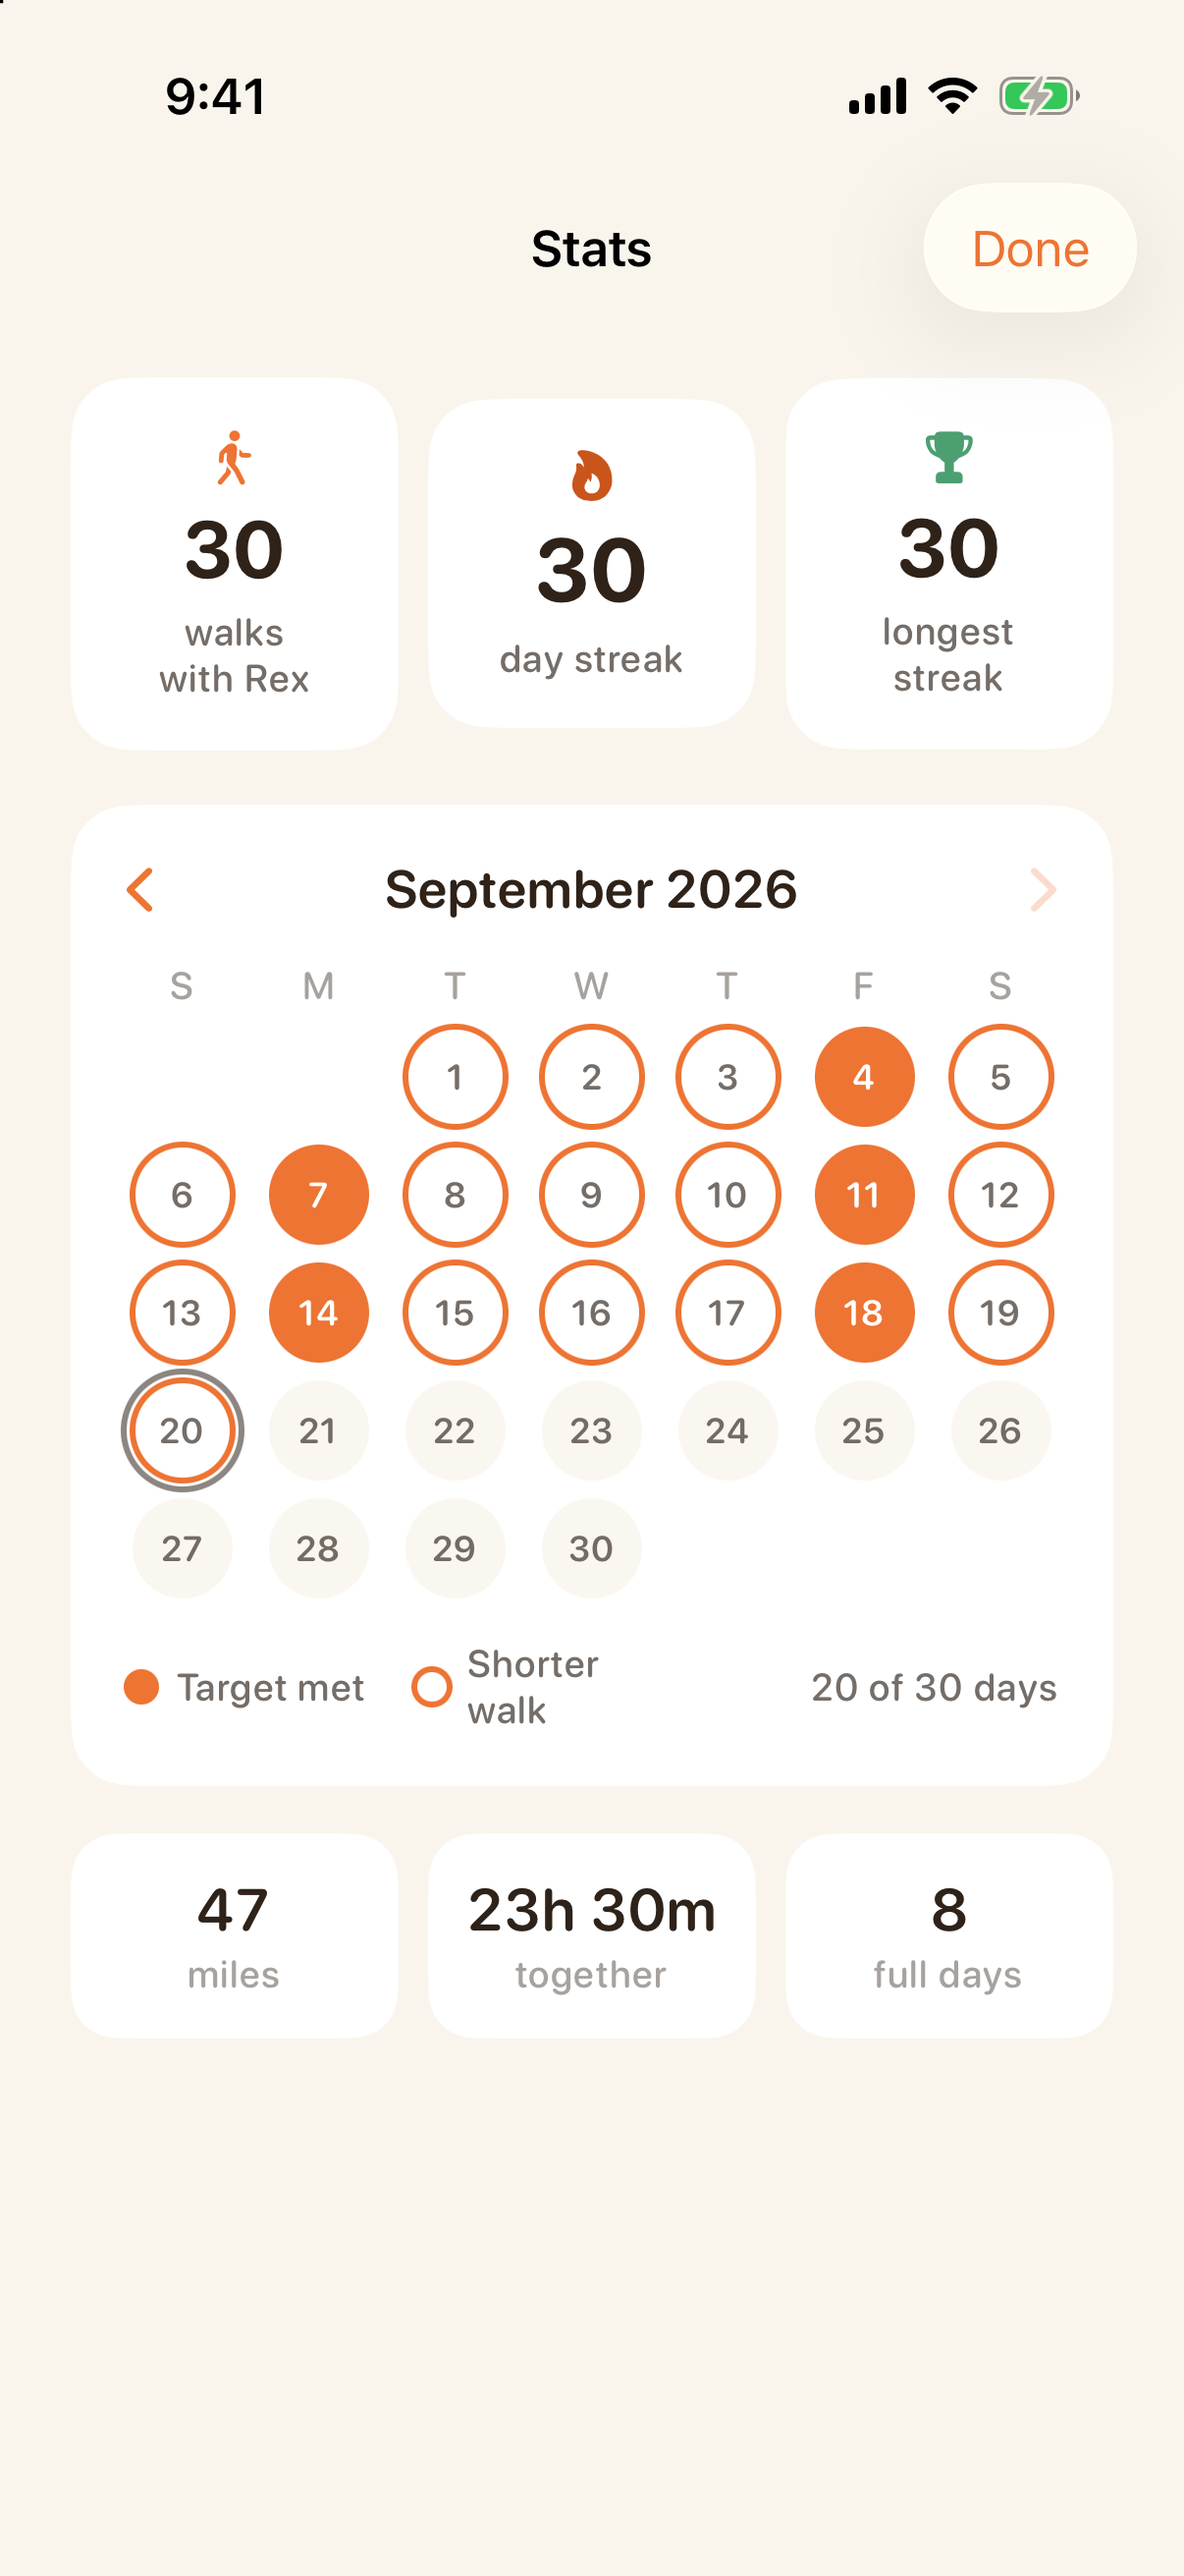
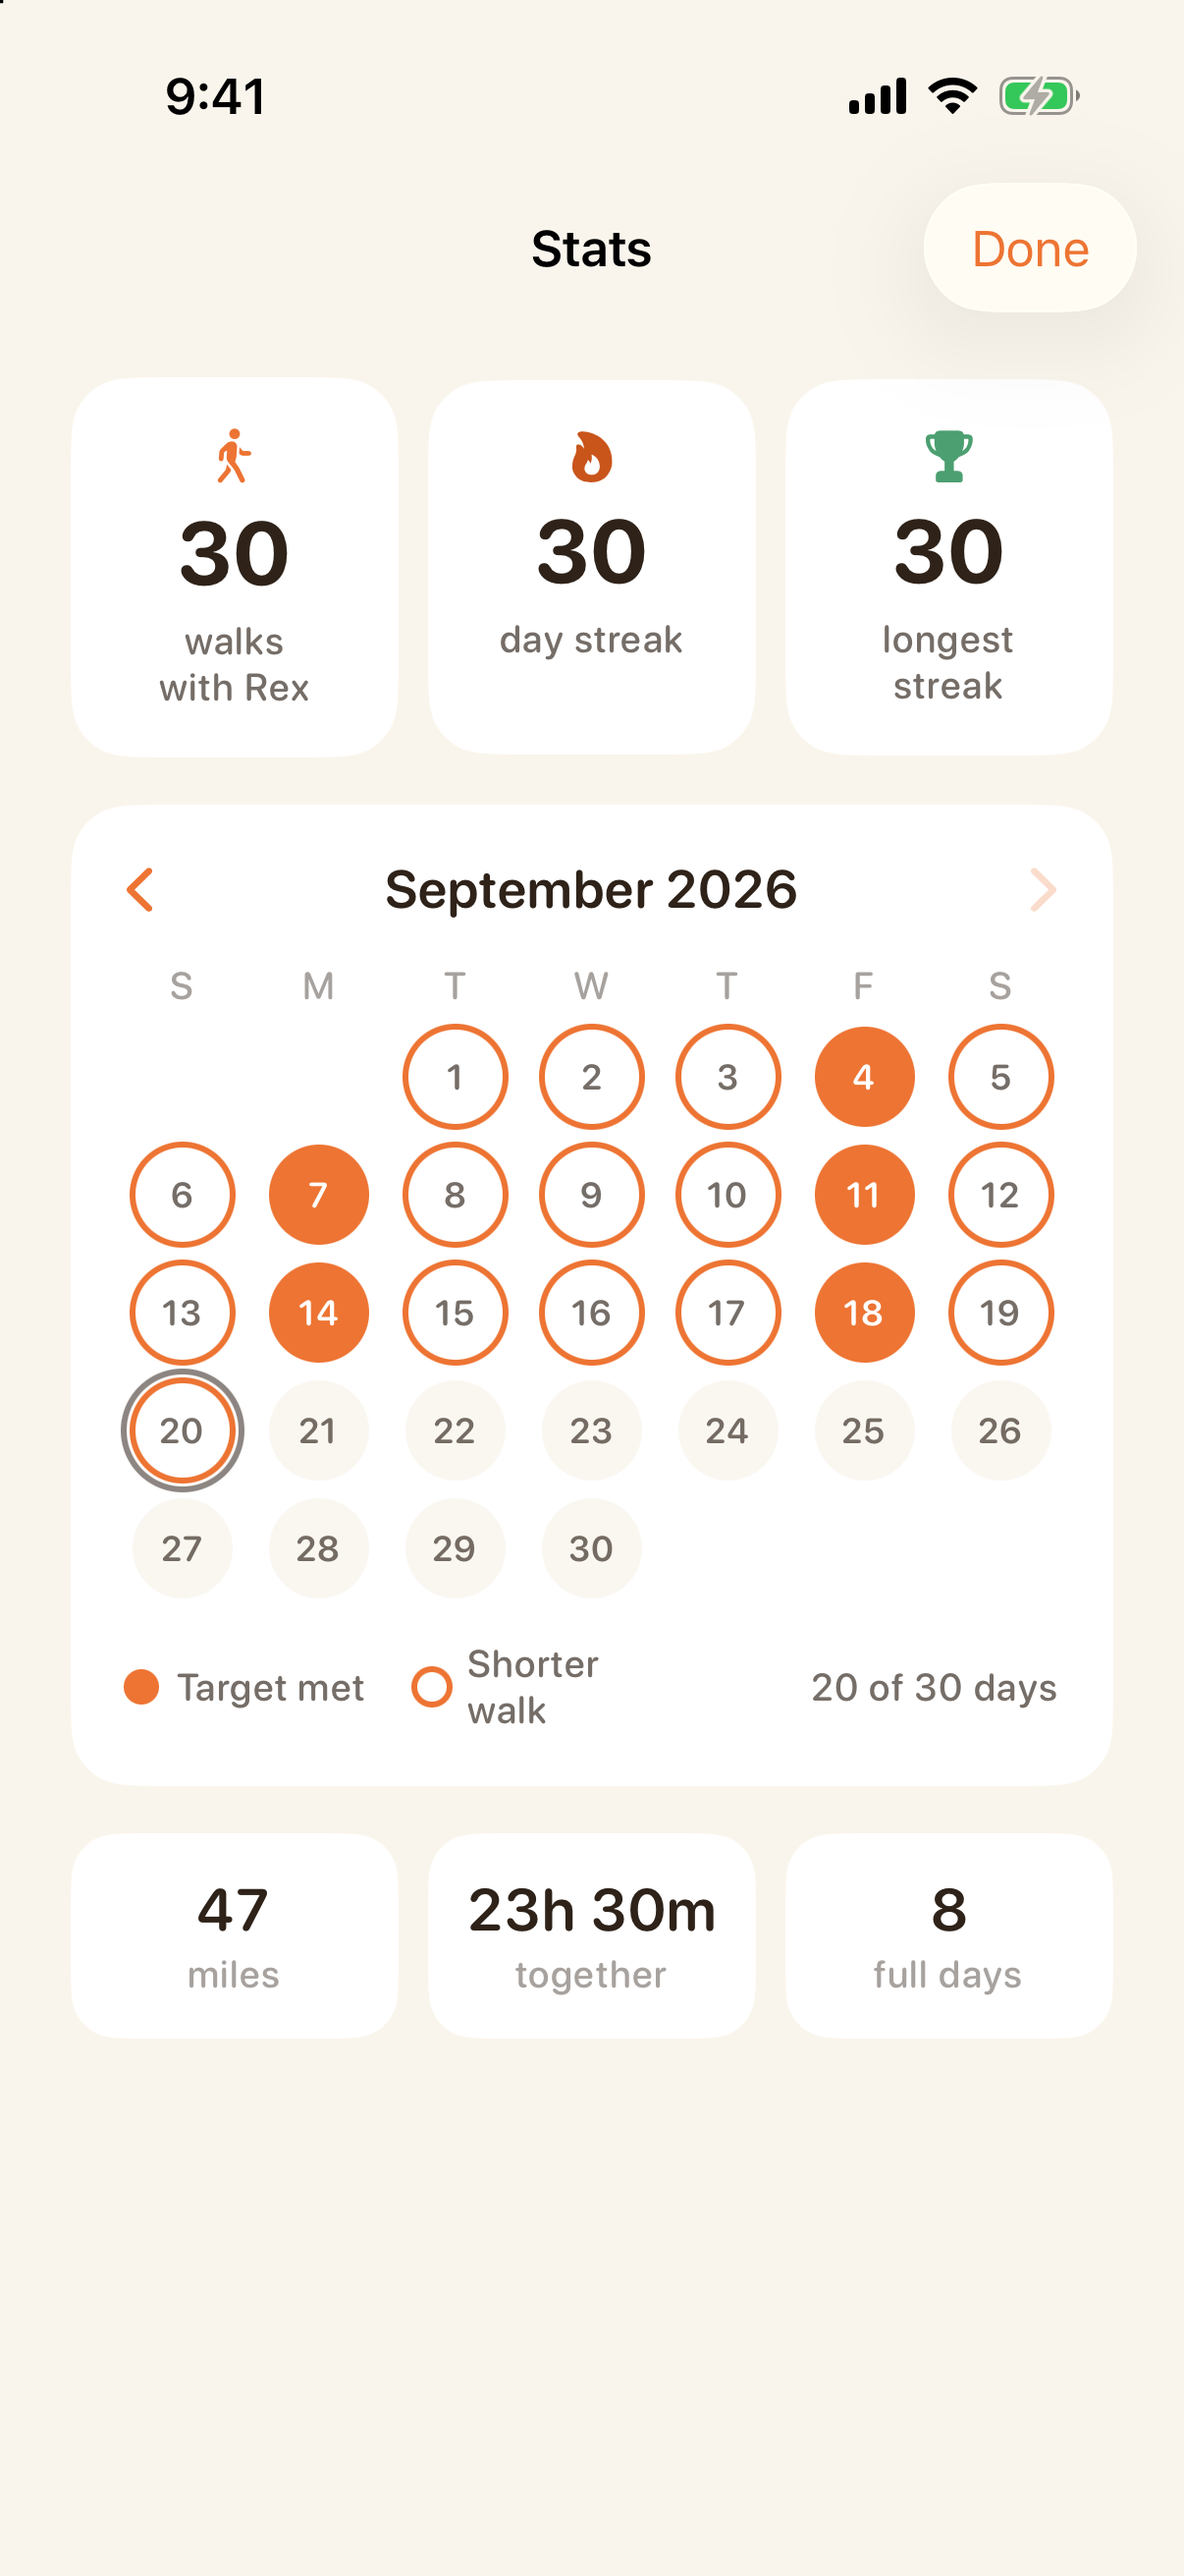
Stats: make the three tiles the same height so the numbers line up
'day streak' is one line where the other two labels wrap, so its card was shorter and
its number sat lower than the other two. The label now always reserves two lines.

Changed region(s): [[0.4295, 0.1545, 0.5829, 0.278], [0.1227, 0.1545, 0.2761, 0.278], [0.7363, 0.1854, 0.859, 0.278]]

diff --git a/GoodWalk/Views/Stats/StatsView.swift b/GoodWalk/Views/Stats/StatsView.swift
@@ -139,7 +139,9 @@ private struct StatBlock: View {
                         .font(Theme.Font.caption)
                         .foregroundStyle(Theme.textSecondary)
                         .multilineTextAlignment(.center)
-                        .lineLimit(2)
+                        // Always two lines' worth, so a one-line label like "day streak" does not
+                        // make its card shorter and drop its number below the other two.
+                        .lineLimit(2, reservesSpace: true)
                 }
                 .frame(maxWidth: .infinity)
             }
